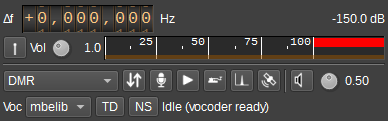
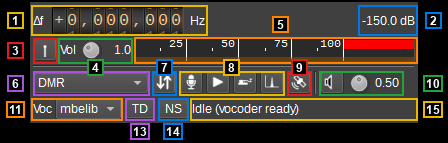
Update docs. Tweak UI. Add missing file.

diff --git a/swagger/sdrangel/code/qt5/client/SWGDemodAnalyzerSettings.cpp b/swagger/sdrangel/code/qt5/client/SWGDemodAnalyzerSettings.cpp
@@ -40,6 +40,10 @@ SWGDemodAnalyzerSettings::SWGDemodAnalyzerSettings() {
     m_record_to_file_isSet = false;
     record_silence_time = 0;
     m_record_silence_time_isSet = false;
+    real_spectrum = 0;
+    m_real_spectrum_isSet = false;
+    real_spectrum = 0;
+    m_real_spectrum_isSet = false;
     use_reverse_api = 0;
     m_use_reverse_api_isSet = false;
     reverse_api_address = nullptr;
@@ -146,6 +150,8 @@ SWGDemodAnalyzerSettings::fromJsonObject(QJsonObject &pJson) {
     ::SWGSDRangel::setValue(&record_to_file, pJson["recordToFile"], "qint32", "");
     
     ::SWGSDRangel::setValue(&record_silence_time, pJson["recordSilenceTime"], "qint32", "");
+
+    ::SWGSDRangel::setValue(&real_spectrum, pJson["realSpectrum"], "qint32", "");
     
     ::SWGSDRangel::setValue(&use_reverse_api, pJson["useReverseAPI"], "qint32", "");
     
@@ -196,6 +202,9 @@ SWGDemodAnalyzerSettings::asJsonObject() {
     }
     if(m_record_silence_time_isSet){
         obj->insert("recordSilenceTime", QJsonValue(record_silence_time));
+    }
+    if(m_real_spectrum_isSet){
+        obj->insert("realSpectrum", QJsonValue(real_spectrum));
     }
     if(m_use_reverse_api_isSet){
         obj->insert("useReverseAPI", QJsonValue(use_reverse_api));
@@ -283,6 +292,16 @@ void
 SWGDemodAnalyzerSettings::setRecordSilenceTime(qint32 record_silence_time) {
     this->record_silence_time = record_silence_time;
     this->m_record_silence_time_isSet = true;
+}
+
+qint32
+SWGDemodAnalyzerSettings::getRealSpectrum() {
+    return real_spectrum;
+}
+void
+SWGDemodAnalyzerSettings::setRealSpectrum(qint32 real_spectrum) {
+    this->real_spectrum = real_spectrum;
+    this->m_real_spectrum_isSet = true;
 }
 
 qint32
@@ -386,6 +405,9 @@ SWGDemodAnalyzerSettings::isSet(){
             isObjectUpdated = true; break;
         }
         if(m_record_silence_time_isSet){
+            isObjectUpdated = true; break;
+        }
+        if(m_real_spectrum_isSet){
             isObjectUpdated = true; break;
         }
         if(m_use_reverse_api_isSet){

diff --git a/swagger/sdrangel/code/qt5/client/SWGDemodAnalyzerSettings.h b/swagger/sdrangel/code/qt5/client/SWGDemodAnalyzerSettings.h
@@ -63,6 +63,9 @@ public:
     qint32 getRecordSilenceTime();
     void setRecordSilenceTime(qint32 record_silence_time);
 
+    qint32 getRealSpectrum();
+    void setRealSpectrum(qint32 real_spectrum);
+
     qint32 getUseReverseApi();
     void setUseReverseApi(qint32 use_reverse_api);
 
@@ -108,6 +111,9 @@ private:
 
     qint32 record_silence_time;
     bool m_record_silence_time_isSet;
+
+    qint32 real_spectrum;
+    bool m_real_spectrum_isSet;
 
     qint32 use_reverse_api;
     bool m_use_reverse_api_isSet;

diff --git a/plugins/channelrx/demoddsd/dsddemodgui.cpp b/plugins/channelrx/demoddsd/dsddemodgui.cpp
@@ -721,7 +721,7 @@ void DSDDemodGUI::audioSelect(const QPoint& p)
 void DSDDemodGUI::tick()
 {
     updateMyPosition();   // the preferences' position, when it changes
-    ui->contactReportStatus->setText(tr("Contact reporting: %1").arg(m_dsdDemod->contactReportStatus()));
+    ui->contactReportStatus->setText(tr("%1").arg(m_dsdDemod->contactReportStatus()));
     double magsqAvg, magsqPeak;
     int nbMagsqSamples;
     m_dsdDemod->getMagSqLevels(magsqAvg, magsqPeak, nbMagsqSamples);

diff --git a/plugins/channelrx/demoddsd/readme.md b/plugins/channelrx/demoddsd/readme.md
@@ -10,14 +10,14 @@ This plugin demodulates and decodes digital voice modes. It is the receive count
   - NXDN: A joint Icom (IDAS) and Kenwood (Nexedge) standard, both the 4800 bit/s (2400 Baud, 6.25 kHz, "NXDN48") and the 9600 bit/s (4800 Baud, 12.5 kHz, "NXDN96") versions. The full rate vocoder (EFR) of NXDN96 is decoded by the AMBE feature only.
   - dPMR (ETSI TS 102 490): 4FSK, 2400 symbols/s, AMBE+2 3600x2450.  
   - P25 Phase 1: C4FM, 4800 symbols/s, IMBE 7200x4400. the APCO Project 25 FDMA standard used by public safety networks in North America, clear (unencrypted) voice.
-  - P25 Phase 2: 4FSK at 6000 symbols/s, AMBE+2 3600x2450. The two slot TDMA version of Project 25 used by trunked systems for their voice channels. The voice is scrambled with a sequence derived from the system's identity (WACN, system ID and NAC), which must be entered (B.13); the values are broadcast on the system's control channel and listed by the usual radio reference sites.
+  - P25 Phase 2: 4FSK at 6000 symbols/s, AMBE+2 3600x2450. The two slot TDMA version of Project 25 used by trunked systems for their voice channels. The voice is scrambled with a sequence derived from the system's identity (WACN, system ID and NAC), which must be entered (C.7); the values are broadcast on the system's control channel and listed by the usual radio reference sites.
   - [M17](https://spec.m17project.org): 4FSK at 4800 symbols/s in 12.5 kHz, 40 ms frames, Codec2 3200 voice with the callsigns in a link setup frame and packet transmissions carrying SMS text or APRS. This is SDRangel's second M17 receiver: the [M17 Demodulator](../demodm17/readme.md) has its own modem, this one decodes M17 in the same chain as the other protocols here, so a scanner or a recording can switch between them, and the two can be compared on the same measurements.
   - Angel61: SDRangel's own amateur digital voice protocol in four profiles:
     - on VHF/UHF Angel61 NB, 6.25 kHz (4800 symbols/s QPSK or 16-QAM), and Angel61 WB, 12.5 kHz (9600 symbols/s QPSK or 16-QAM), 
     - on HF Angel61 HF-NB, 2.7 kHz (50-carrier OFDM), and HF-WB, 6 kHz (110-carrier OFDM) 
-    - with 24kHz V1 speech (vocoscodec) at four tiers (from 1.5kpbs to 12kbps) and WB's top tier using Opus audio at 18.4 kbit/s, LDPC coding, callsign routing, text messages, positions, file transfers and IP tunneling.
+    - with 24 kHz V1 speech (vocoscodec) at four tiers (from 1.5kpbs to 12kbps) and WB's top tier using Opus audio at 18.4 kbit/s, LDPC coding, callsign routing, text messages, positions, file transfers and IP tunneling.
 
-The protocol is detected automatically from the synchronisation patterns found in the signal, at all three symbol rates, or the search can be limited to one protocol (B.2). The receiver measures the frequency deviation, the carrier frequency error and the symbol clock error of the signal it locks to and corrects them itself, so there is nothing to adjust for a given radio or channel plan beyond the channel bandwidth.
+The protocol is detected automatically from the synchronisation patterns found in the signal, at all three symbol rates, or the search can be limited to one protocol (C.1). The receiver measures the frequency deviation, the carrier frequency error and the symbol clock error of the signal it locks to and corrects them itself, so there is nothing to adjust for a given radio or channel plan beyond the channel bandwidth.
 
 &#9888; A minimum of 48 kS/s I/Q sample rate in the baseband is required for the demodulator/decoder to work correctly.
 
@@ -33,7 +33,7 @@ For protocols using the AMBE vocoder (which is all apart from M17 and Angel61), 
 
 You can use a serial device connected to your system that implements and exposes the packet interface of the AMBE3000 chip. This can be for example a ThumbDV USB dongle. You may also connect to an AMBE server instance over the network. This is supported via the [AMBE feature](../../feature/ambe/readme.md).
 
-When an AMBE feature is selected as the vocoder (B.11) the received frames go to the feature as hard bits and its device decodes them. IMBE (P25) decoding depends on the device firmware. If the selected feature is not there, or mbevocoder is selected, decoding takes place in software with mbevocoder.
+When an AMBE feature is selected as the vocoder (A.7) the received frames go to the feature as hard bits and its device decodes them. IMBE (P25) decoding depends on the device firmware. If the selected feature is not there, or mbevocoder is selected, decoding takes place in software with mbevocoder.
 
 The decoded audio (mono, at the audio device rate, after the volume and the slot selection) is also available to features that take a channel's demodulated signal, such as the Demod Analyzer and the Morse Decoder. Audio decoded by the AMBE feature goes straight to the audio device and is not on that path.
 
@@ -63,7 +63,7 @@ Total power in dB relative to a +/- 1.0 amplitude signal generated in the pass b
 
 <h4>A.5: Activate status text log</h4>
 
-Check to send the status text lines (A.12) and DMR events to the log. Uncheck to dismiss sending.
+Check to send the status text lines (A.14) and DMR events to the log. Uncheck to dismiss sending.
 DMR events are emitted when a call starts or ends, when link-control details become available or change, and when a complete standard Talker Alias, in-band GPS position or text message is decoded.
 Repeated voice bursts and unchanged metadata do not produce repeated rows; changing GPS positions are limited to one row per second per slot.
 
@@ -107,7 +107,7 @@ Standard Talker Alias, in-band GPS link control and text messages produce rows s
 
 `DMR S1 CC:1 EVT:TEXT SRC:1234567 DST:7654321 TYPE:UNIT FORMAT:UTF-16BE/IP TEXT:"On my way"`
 
-An Angel61 transmission logs its start and end, its text messages (from the data slots or the message field of data frames), the positions it sends and, at its end, the rate request record kept for its source (see A12.8):
+An Angel61 transmission logs its start and end, its text messages (from the data slots or the message field of data frames), the positions it sends and, at its end, the rate request record kept for its source (see A14.8):
 
 `ANGEL61 EVT:START`
 
@@ -199,7 +199,7 @@ A D-PRS sentence whose CRC checks is an APRS packet, whatever it carries (a posi
   - the data type from the FICH: `V/D 1`, `data FR`, `V/D 2` or `voice FR`; `no FICH` while none has been decoded
   - the source and destination callsigns from the header or the data channel of the communication frames, then the downlink and uplink repeater callsigns
 
-<h4>A12.5: NXDN status display</h4>
+<h4>A14.5: NXDN status display</h4>
 
 `RAN 1 VCALL group 1234 > 5678`
 
@@ -219,14 +219,14 @@ On a trunking control channel (a stream of TSDUs) the display becomes:
 
 `NAC 1A0 system BEE00:1AE:1A0 TSDU GRP_V_CH_GRANT_UPDT TG 20400 500.7000 MHz`
 
-  - `system`: the WACN, system ID and NAC from the network status broadcast, in the form the P25 Phase 2 setting (B.13) takes
+  - `system`: the WACN, system ID and NAC from the network status broadcast, in the form the P25 Phase 2 setting (C.7) takes
   - the last trunking signalling block decoded: its opcode name (TIA-102.AABC) and, for the channel grants, the talkgroup (or unit) and the frequency (from the identifier update broadcasts; the raw channel field until they have been seen, and the slot for a TDMA channel), for the status broadcasts the system, RFSS and site. A channel grant stays on display for a few seconds; the vendor specific blocks show as `MFID xx op yy`.
 
 <h4>A14.7: P25 Phase 2 status display</h4>
 
 `S1: 4V PTT TG 4321 from 1234567 S2: SACCH IDLE`
 
-For each of the two channels (slots): the last burst type (`4V`, `2V` voice, `SACCH`, `FACCH`, `LCCH`), the last MAC message decoded from a SACCH or FACCH (`PTT`, `END`, `IDLE`, `ACTIVE`, `HANGTIME`), and from the last PTT the talkgroup and the source ID, followed by the encryption algorithm name when the voice is encrypted (only clear voice is decoded). `TS ?` at the start means the timeslot is not yet known (the first bursts after a lock, until an information ISCH is read); `no system` means the WACN, system ID and NAC (B.13) are not set, in which case only the unscrambled signalling is decoded.
+For each of the two channels (slots): the last burst type (`4V`, `2V` voice, `SACCH`, `FACCH`, `LCCH`), the last MAC message decoded from a SACCH or FACCH (`PTT`, `END`, `IDLE`, `ACTIVE`, `HANGTIME`), and from the last PTT the talkgroup and the source ID, followed by the encryption algorithm name when the voice is encrypted (only clear voice is decoded). `TS ?` at the start means the timeslot is not yet known (the first bursts after a lock, until an information ISCH is read); `no system` means the WACN, system ID and NAC (C.7) are not set, in which case only the unscrambled signalling is decoded.
 
 <h4>A14.8: Angel61 status display</h4>
 
@@ -355,22 +355,24 @@ Measured on the signal locked to:
 
   - `err`: the carrier frequency error in Hz, corrected automatically within a quarter of the channel bandwidth
   - `snr`: the symbol signal to noise ratio at the slicer in dB
-  - `ber`: the raw bit error rate on the channel in percent, from the corrections the voice frames' own codes make, whichever vocoder plays them (the AMBE feature and Codec2 included): the Golay and Hamming codes of the AMBE and IMBE frames (DMR, D-STAR, YSF full rate, NXDN, dPMR, P25), counted by decoding each frame on its hard bits, re-encoding it and comparing; M17's convolutional code; YSF V/D type 2's triple repetition; Angel61's LDPC code. Checked against the harness's known channel errors for every protocol: within about 15% up to 5%, reading low above about 10% where the codes run out of correction (the voice is gone by then). Frames that do not decode are not in it; for Angel61 those are what the status line's `BLER` counts (A12.8). D-STAR and P25 Phase 1 need mbevocoder compiled in for the count; the AMBE+2 protocols do not
+  - `ber`: the raw bit error rate on the channel in percent, from the corrections the voice frames' own codes make, whichever vocoder plays them (the AMBE feature and Codec2 included): the Golay and Hamming codes of the AMBE and IMBE frames (DMR, D-STAR, YSF full rate, NXDN, dPMR, P25), counted by decoding each frame on its hard bits, re-encoding it and comparing; M17's convolutional code; YSF V/D type 2's triple repetition; Angel61's LDPC code. Checked against the harness's known channel errors for every protocol: within about 15% up to 5%, reading low above about 10% where the codes run out of correction (the voice is gone by then). Frames that do not decode are not in it; for Angel61 those are what the status line's `BLER` counts (A14.8). D-STAR and P25 Phase 1 need mbevocoder compiled in for the count; the AMBE+2 protocols do not
 
 
 <h4>C.5: CC - Color code</h4>
 
 The **CC** selector beside the stereo button filters audio by colour code: DMR (`0` to `15`), dPMR (`0` to `63`) and, by its RAN, NXDN (`0` to `63`). Select `Any` to hear every call, or select a value to hear audio only when the decoded code matches. A value above `15` silences DMR. This does not affect synchronization, decoding, the constellation or the status display.
 
-<h4>C.5: TG - Talk Group</h4>
+<h4>C.6: TG - Talk Group</h4>
 
 Angel61 talkgroups to play, comma separated (9, 23). A call to another talkgroup is shown but not played. Calls to CQ and to callsigns are always played. Empty: every call is played.
 
-<h4>C.6: P25 Phase 2 system</h4>
+<h4>C.7: P25 Phase 2 system</h4>
 
 The WACN, system ID and NAC of the P25 system, in hexadecimal separated by colons (`BEE00:001:293`), from which the Phase 2 scrambling sequence is derived. Without the right values the voice and the scrambled signalling of a Phase 2 channel cannot be decoded (the lock, the timeslots and the unscrambled signalling are still reported). Trunked systems broadcast their WACN and system ID on the control channel, and their NAC is that of the site; radio reference sites list all three.
 
 <h3>D: Contacts Reporting Tab</h3>
+
+![Contacts Reporting Tab](../../../doc/img/DSDdemod_contact_reporting.png)
 
 <h4>D.1: Report contacts</h4>
 
@@ -381,6 +383,8 @@ When checked, Angel61 contacts are reported to [angel61.sdrangel.org](http://ang
 Callsign to include in contact reports as the receiver.
 
 <h3>E: File Transfer Tab</h3>
+
+![File Transfer Tab](../../../doc/img/DSDdemod_file_transfer.png)
 
 <h4>E.1: Save to</h4>
 
@@ -403,6 +407,8 @@ Accept the file awaiting confirmation.
 Refuse the file awaiting confirmation.
 
 <h3>F: IP Tunnel</h3>
+
+![IP Tunneling Tab](../../../doc/img/DSDdemod_ip_tunneling.png)
 
 Angel61 can carry IP between two stations. The DSD Demodulator has no settings for it: the tunnel belongs to a [DSE Modulator](../../channeltx/moddse/readme.md) in the same instance, which creates the host interface and holds its peer, address, routes and filter. Everything the demodulator receivers goes to that modulator. With no modulator, or with its Tunnel off, datagrams are counted but none will reache the host. If there is more than one DSD Demodulator, the modulator's Rx selector picks which one it listens to.
 

diff --git a/plugins/channeltx/moddse/readme.md b/plugins/channeltx/moddse/readme.md
@@ -12,7 +12,10 @@ This plugin is the transmit counterpart of the [DSD Demodulator](../../../plugin
   - P25 Phase 1: C4FM, 4800 symbols/s, IMBE 7200x4400.
   - P25 Phase 2: 4FSK at 6000 symbols/s, AMBE+2 3600x2450.
   - [M17](https://spec.m17project.org): 4FSK at 4800 symbols/s in 12.5 kHz with Codec2 3200. A text message with no voice input is sent as an SMS packet transmission.
-  - Angel61: SDRangel's own digital voice protocol in four profiles. On VHF/UHF, linear signals rather than FM: **Angel61 NB** in a 6.25 kHz channel (QPSK or 16-QAM at 4800 symbols/s) and **Angel61 WB** in a 12.5 kHz channel (9600 symbols/s). On HF, OFDM: **Angel61 HF-NB** (2.5 kHz) and **Angel61 HF-WB** (5.5 kHz). All four have LDPC coding, V1 speech (vocoscodec) at four tiers each (WB's top tier is Opus audio at 18.4 kbit/s instead), callsign routing (source, destination, up to two repeaters), the station's position and text messages in its data slots, data under the voice, or a message, file or datagram alone as a data transmission.
+  - Angel61: SDRangel's own amateur digital voice protocol in four profiles:
+    - on VHF/UHF Angel61 NB, 6.25 kHz (4800 symbols/s QPSK or 16-QAM), and Angel61 WB, 12.5 kHz (9600 symbols/s QPSK or 16-QAM), 
+    - on HF Angel61 HF-NB, 2.7 kHz (50-carrier OFDM), and HF-WB, 6 kHz (110-carrier OFDM) 
+    - with 24 kHz V1 speech (vocoscodec) at four tiers (from 1.5kpbs to 12kbps) and WB's top tier using Opus audio at 18.4 kbit/s, LDPC coding, callsign routing, text messages, positions, file transfers and IP tunneling.
 
 The AMBE and IMBE speech encoder of the D-STAR, DMR, YSF, NXDN, dPMR and P25 modes can be either:
 
@@ -26,8 +29,6 @@ M17 encodes with Codec2 and Angel61 with V1 or Opus.
 The top and bottom bars of the channel window are described in the [Channel window](../../../sdrgui/channel/readme.md) documentation.
 
 ![DSE Modulator plugin GUI](../../../doc/img/DSEMod_plugin.png)
-
-The settings are in rows at the top of the window: frequency and power (1, 2), PTT and input level (3 to 5), protocol and inputs (6 to 10), and the vocoder (11 to 15). Below them, a tab bar holds the selected protocol's parameters (16 to 23) and the functions available to it: the audio file (24), the Angel61 data functions (25 to 28) when an Angel61 mode is selected, DTMF (29) and the CW keyer (30). Selecting an input that has a tab (the audio file or the Morse keyer) brings its tab to the front. The spectrum (31) is in its own rollup at the bottom.
 
 <h3>1: Frequency shift from center frequency of transmission</h3>
 
